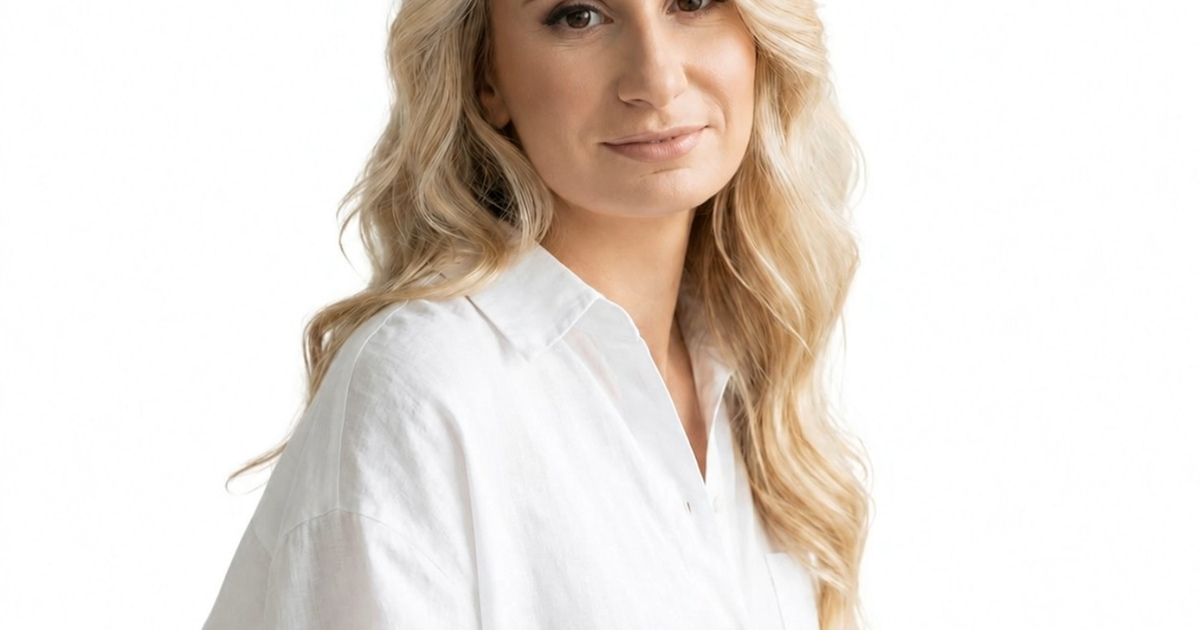
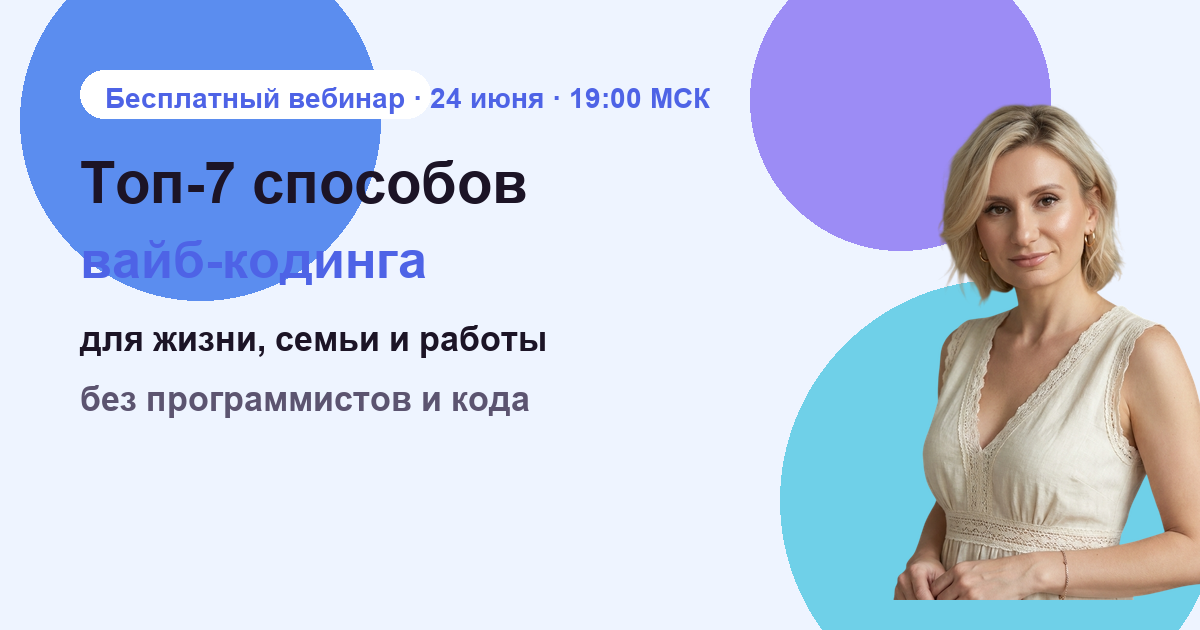
Исправить превью в Telegram: новая OG-карточка и JPEG.

diff --git a/deploy/index.html b/deploy/index.html
@@ -10,14 +10,18 @@
   <meta property="og:url" content="https://vibecoding.neiroguru.ru/">
   <meta property="og:title" content="Бесплатный вебинар · 24 июня — Топ-7 способов вайб-кодинга">
   <meta property="og:description" content="Покажем, как использовать вайб-кодинг в жизни, семье и работе — без программистов. 24 июня, 19:00 МСК.">
-  <meta property="og:image" content="https://vibecoding.neiroguru.ru/assets/og-image.png">
+  <meta property="og:image" content="https://vibecoding.neiroguru.ru/assets/og-image.jpg">
+  <meta property="og:image:secure_url" content="https://vibecoding.neiroguru.ru/assets/og-image.jpg">
+  <meta property="og:image:type" content="image/jpeg">
   <meta property="og:image:width" content="1200">
   <meta property="og:image:height" content="630">
+  <meta property="og:site_name" content="Ксения Баранова · Школа нейросетей">
   <meta property="og:locale" content="ru_RU">
+  <link rel="image_src" href="https://vibecoding.neiroguru.ru/assets/og-image.jpg">
   <meta name="twitter:card" content="summary_large_image">
   <meta name="twitter:title" content="Бесплатный вебинар · 24 июня — Топ-7 способов вайб-кодинга">
   <meta name="twitter:description" content="Покажем, как использовать вайб-кодинг в жизни, семье и работе — без программистов. 24 июня, 19:00 МСК.">
-  <meta name="twitter:image" content="https://vibecoding.neiroguru.ru/assets/og-image.png">
+  <meta name="twitter:image" content="https://vibecoding.neiroguru.ru/assets/og-image.jpg">
   <!-- Yandex.Metrika counter -->
   <script type="text/javascript">
       (function(m,e,t,r,i,k,a){

diff --git a/variant-4.html b/variant-4.html
@@ -10,14 +10,18 @@
   <meta property="og:url" content="https://vibecoding.neiroguru.ru/">
   <meta property="og:title" content="Бесплатный вебинар · 24 июня — Топ-7 способов вайб-кодинга">
   <meta property="og:description" content="Покажем, как использовать вайб-кодинг в жизни, семье и работе — без программистов. 24 июня, 19:00 МСК.">
-  <meta property="og:image" content="https://vibecoding.neiroguru.ru/assets/og-image.png">
+  <meta property="og:image" content="https://vibecoding.neiroguru.ru/assets/og-image.jpg">
+  <meta property="og:image:secure_url" content="https://vibecoding.neiroguru.ru/assets/og-image.jpg">
+  <meta property="og:image:type" content="image/jpeg">
   <meta property="og:image:width" content="1200">
   <meta property="og:image:height" content="630">
+  <meta property="og:site_name" content="Ксения Баранова · Школа нейросетей">
   <meta property="og:locale" content="ru_RU">
+  <link rel="image_src" href="https://vibecoding.neiroguru.ru/assets/og-image.jpg">
   <meta name="twitter:card" content="summary_large_image">
   <meta name="twitter:title" content="Бесплатный вебинар · 24 июня — Топ-7 способов вайб-кодинга">
   <meta name="twitter:description" content="Покажем, как использовать вайб-кодинг в жизни, семье и работе — без программистов. 24 июня, 19:00 МСК.">
-  <meta name="twitter:image" content="https://vibecoding.neiroguru.ru/assets/og-image.png">
+  <meta name="twitter:image" content="https://vibecoding.neiroguru.ru/assets/og-image.jpg">
   <!-- Yandex.Metrika counter -->
   <script type="text/javascript">
       (function(m,e,t,r,i,k,a){